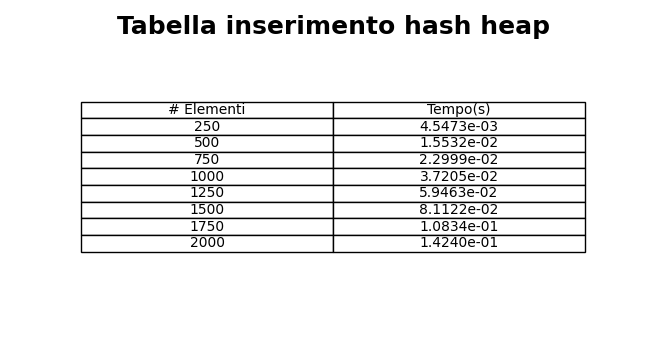
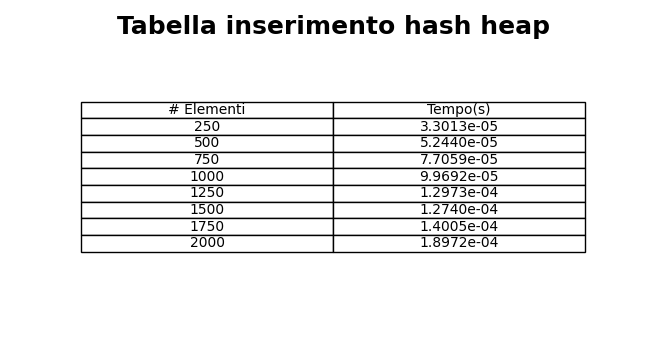
Insert O(n)

Changed region(s): [[0.6462, 0.3429, 0.7692, 0.7143]]

diff --git a/HashHeap_ABR_ConcatenatedList/main.py b/HashHeap_ABR_ConcatenatedList/main.py
@@ -424,8 +424,9 @@ def main():
             hash_heap.insert(i, random.randint(0, size))
 
         # Calcolo tempi lista concatenata
+        list_copy = linked_list.copy()
         insert_list_time = timeit.timeit(
-            lambda: linked_list.copy().add(random.randint(size + 1, size + 100), random.randint(0, size)), number=5)
+            lambda: list_copy.add(random.randint(size + 1, size + 100), random.randint(0, size)), number=5)
         search_list_time = timeit.timeit(lambda: linked_list.search(random.randint(0, size)), number=5)
         remove_list_time = timeit.timeit(lambda: linked_list.remove(random.randint(0, size)), number=5)
         insert_list_times.append(insert_list_time)
@@ -433,8 +434,9 @@ def main():
         remove_list_times.append(remove_list_time)
 
         # Calcolo tempi albero binario di ricerca
+        abr_copy = abr.copy()
         insert_abr_time = timeit.timeit(
-            lambda: abr.copy().insert(random.randint(size + 1, size + 100), random.randint(0, size)), number=5)
+            lambda: abr_copy.insert(random.randint(size + 1, size + 100), random.randint(0, size)), number=5)
         search_abr_time = timeit.timeit(lambda: abr.search(random.randint(0, size)), number=5)
         remove_abr_time = timeit.timeit(lambda: abr.remove(random.randint(0, size)), number=5)
         insert_abr_times.append(insert_abr_time)
@@ -442,8 +444,9 @@ def main():
         remove_abr_times.append(remove_abr_time)
 
         # Calcolo tempi hash heap
+        hash_heap_copy = hash_heap.copy()
         insert_hashheap_time = timeit.timeit(
-            lambda: hash_heap.copy().insert(random.randint(size + 1, size + 100), random.randint(0, size)), number=5)
+            lambda: hash_heap_copy.insert(random.randint(size + 1, size + 100), random.randint(0, size)), number=5)
         search_hashheap_time = timeit.timeit(lambda: hash_heap.search(random.randint(0, size)), number=5)
         remove_hashheap_time = timeit.timeit(lambda: hash_heap.delete(random.randint(0, size)), number=5)
         insert_hashheap_times.append(insert_hashheap_time)
@@ -642,14 +645,14 @@ def main():
     plt.close()
 
     # Grafici hash heap
-    plt.plot(struct_size, insert_abr_times, label='Prestazioni inserimento hash heap', marker='o')
+    plt.plot(struct_size, insert_hashheap_times, label='Prestazioni inserimento hash heap', marker='o')
     plt.xlabel("# di elementi nel hashheap")
     plt.ylabel('Tempo medio (s)')
     plt.legend()
     plt.savefig('insert_hashheap_plot.png')
     plt.close()
 
-    plt.plot(struct_size, search_abr_times, label='Prestazioni ricerca hash heap', marker='o')
+    plt.plot(struct_size, search_hashheap_times, label='Prestazioni ricerca hash heap', marker='o')
     plt.xlabel("# di elementi nel hash heap")
     plt.ylabel('Tempo medio (s)')
     plt.legend()
